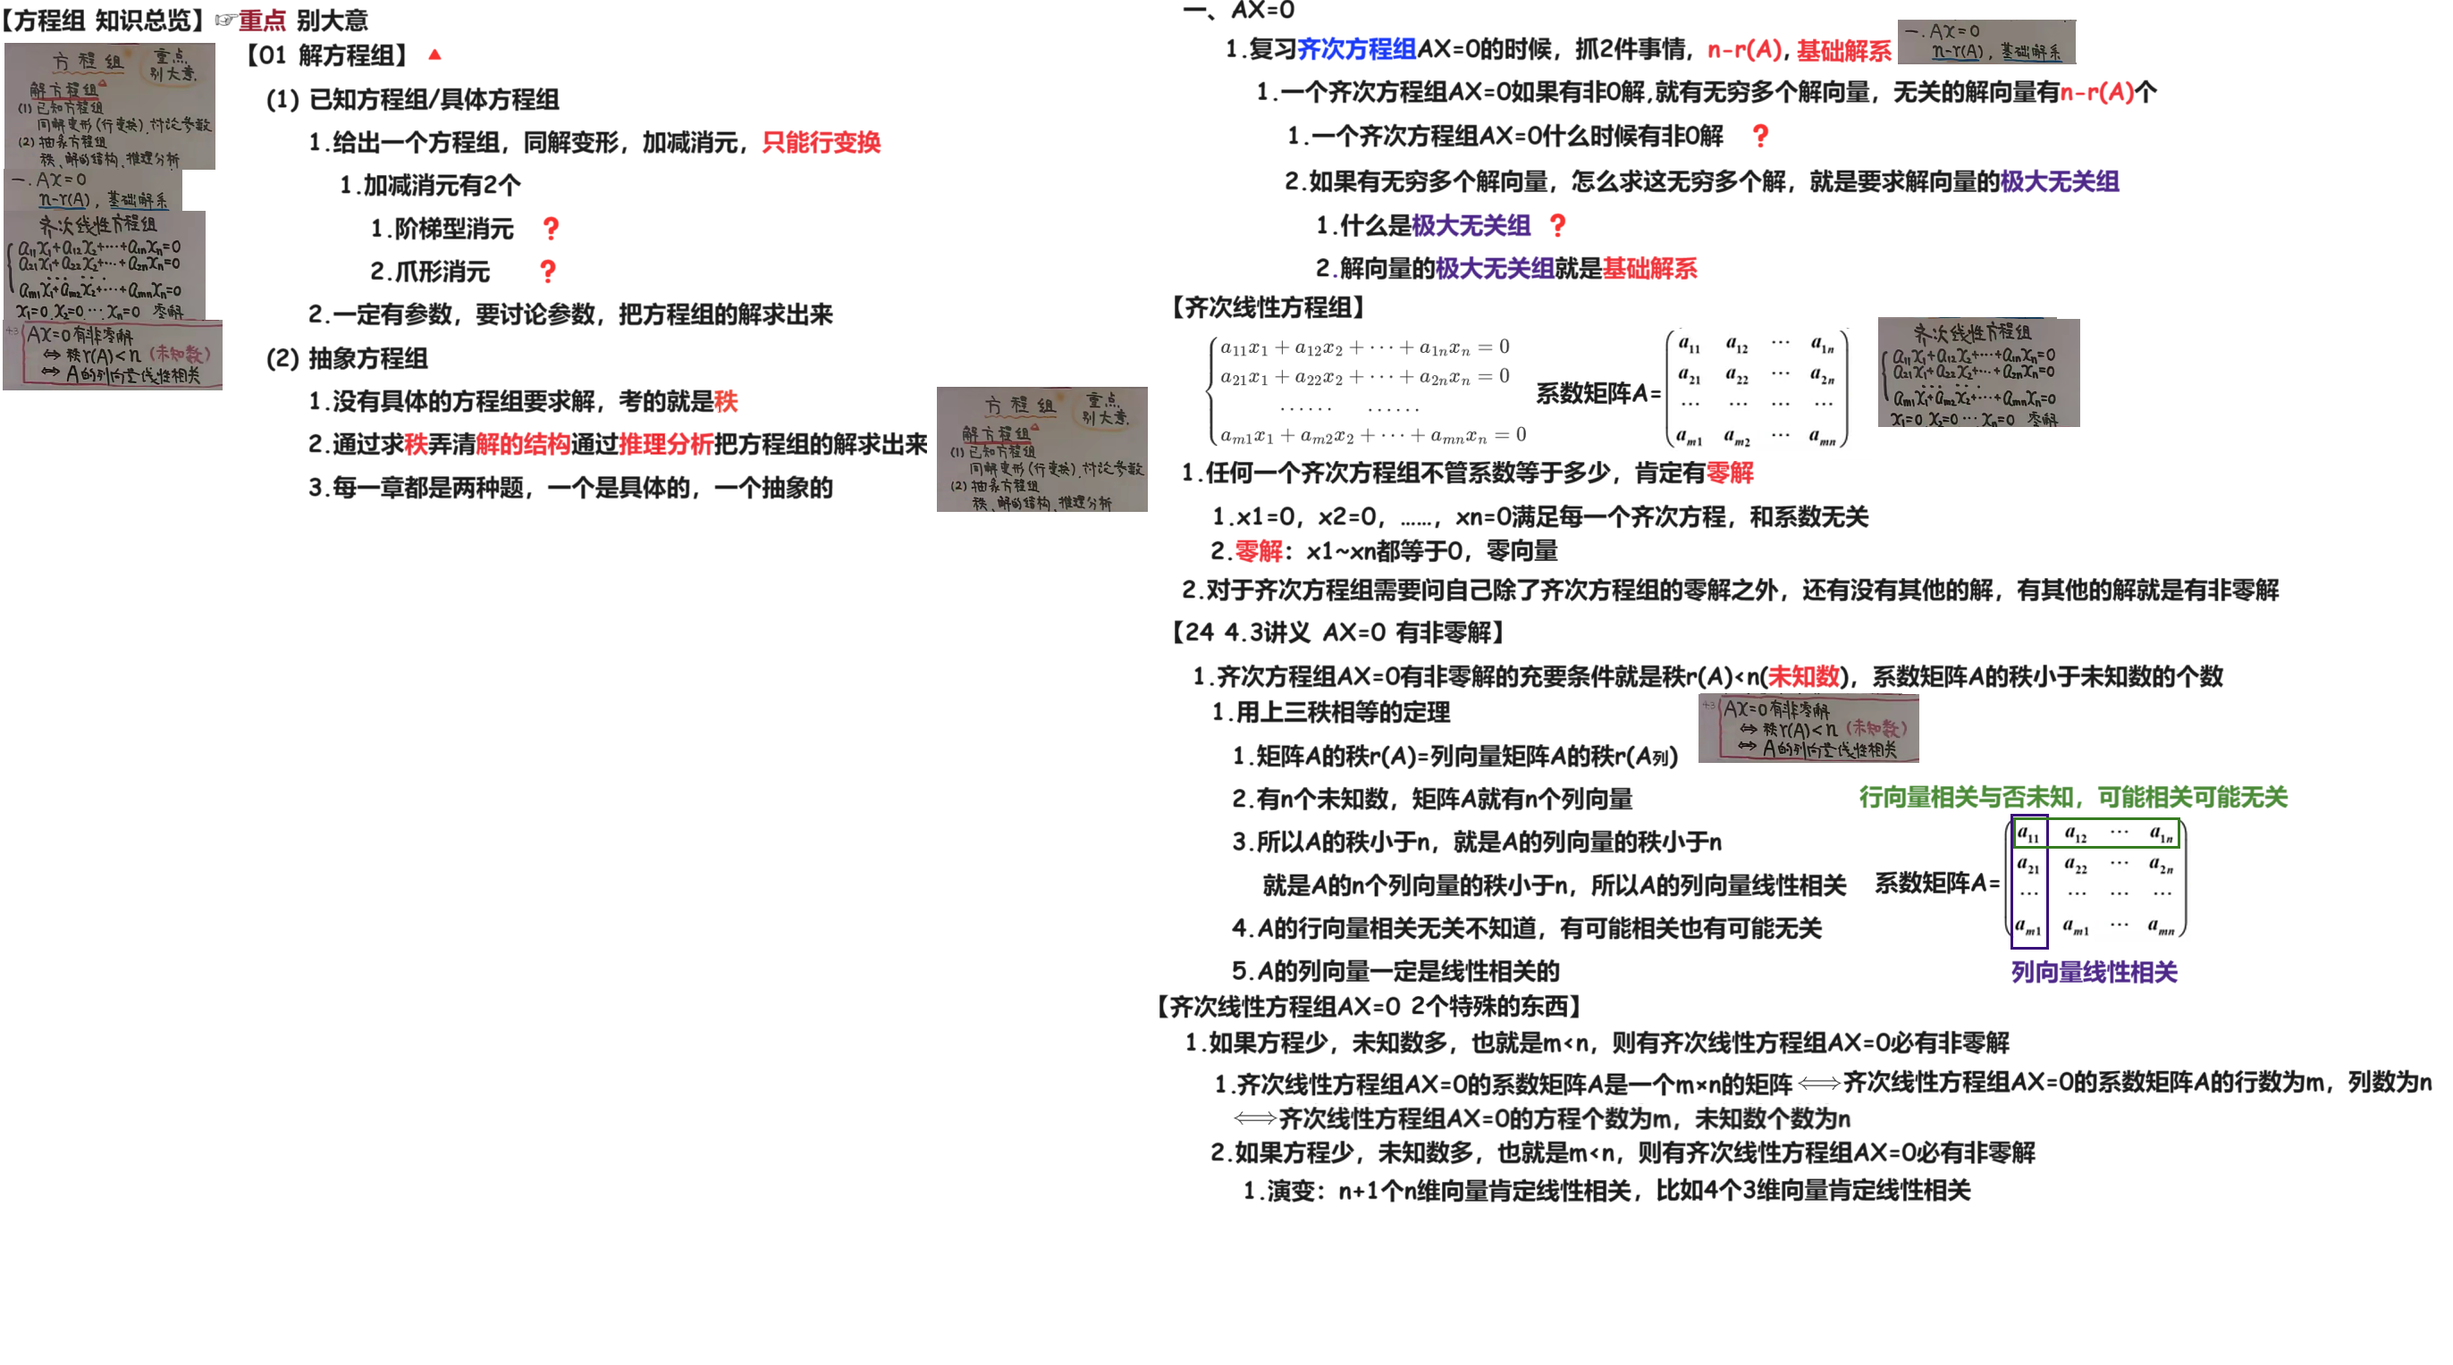
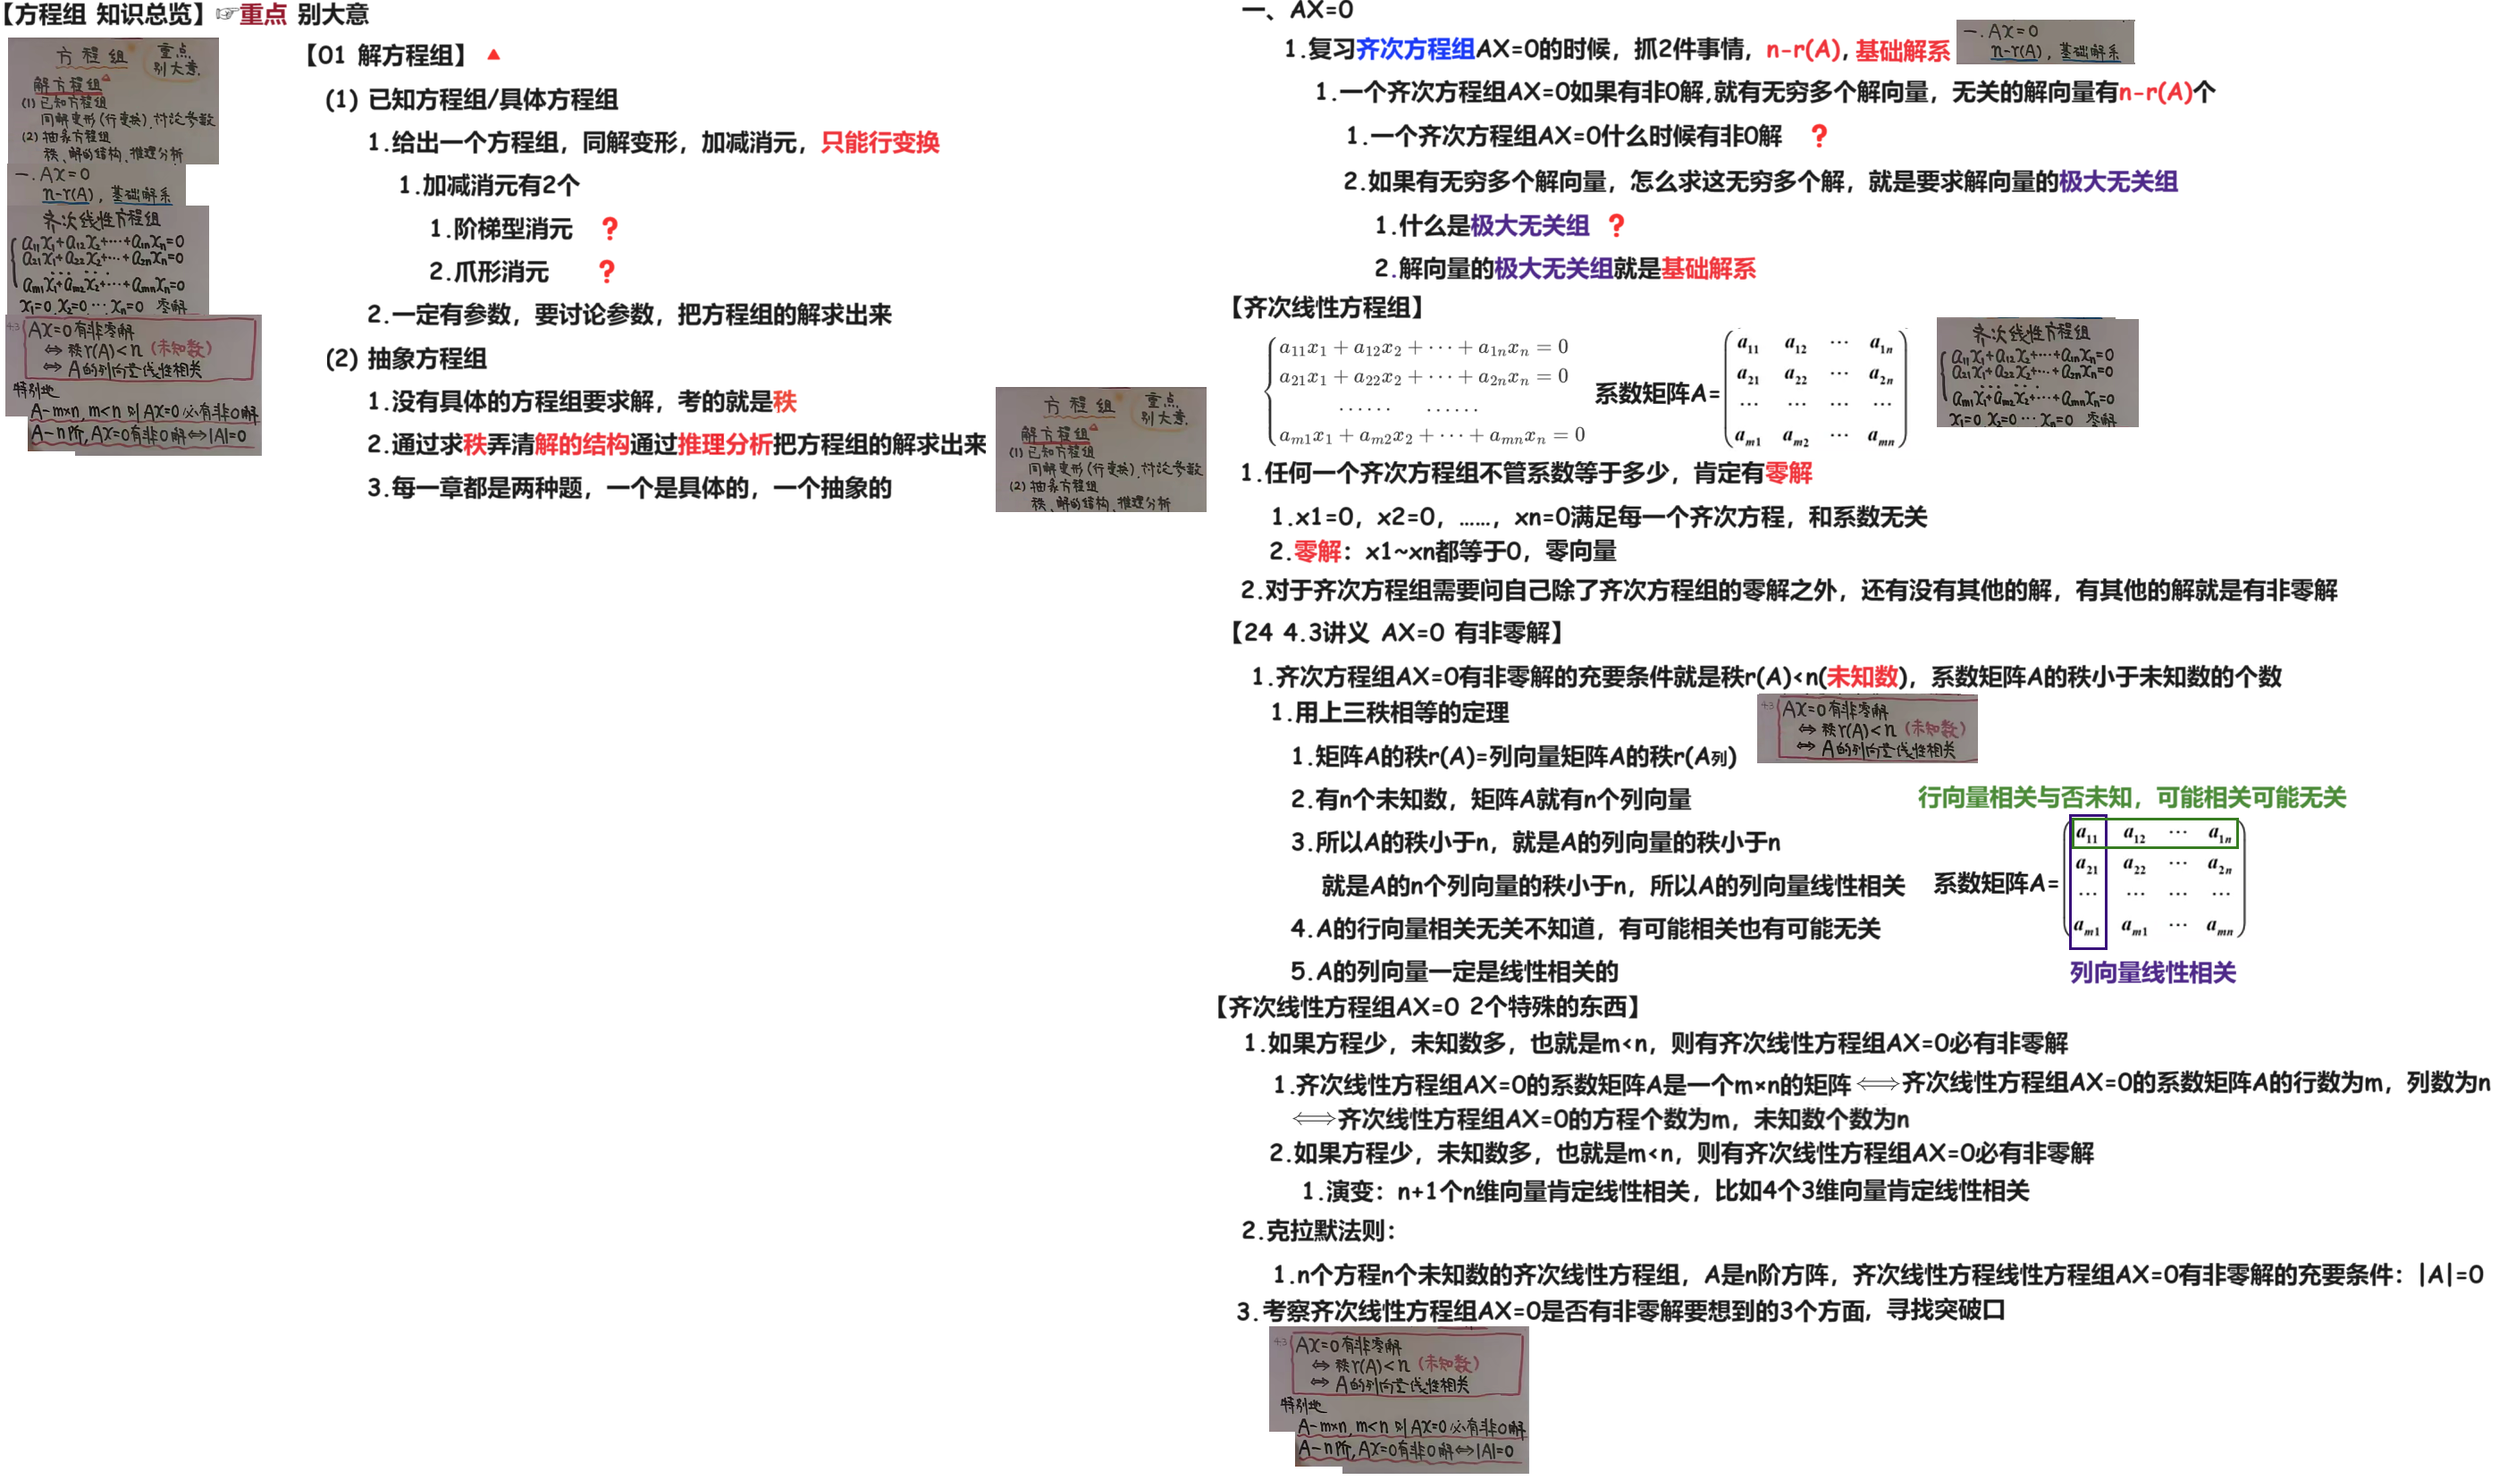
240309

Changed region(s): [[0.0, 0.0, 1.0, 1.0]]

diff --git a/02 线代/02 知识点/06 方程组 【24李永乐强化】【B站小崔说数】 240308/01 24李永乐强化/02 Doc.md b/02 线代/02 知识点/06 方程组 【24李永乐强化】【B站小崔说数】 240308/01 24李永乐强化/02 Doc.md
@@ -1,3 +1,3 @@
-# 01 方程组 知识总览
+# 01 方程组☞齐次线性方程组AX=0
 
-<img src="https://cvp.oss-cn-shanghai.aliyuncs.com/picgo/202403090951333.png" alt="image-20240309095129205" style="zoom:50%;" />
+<img src="https://cvp.oss-cn-shanghai.aliyuncs.com/picgo/202403091134973.png" alt="image-20240309113404638" style="zoom:50%;" />
